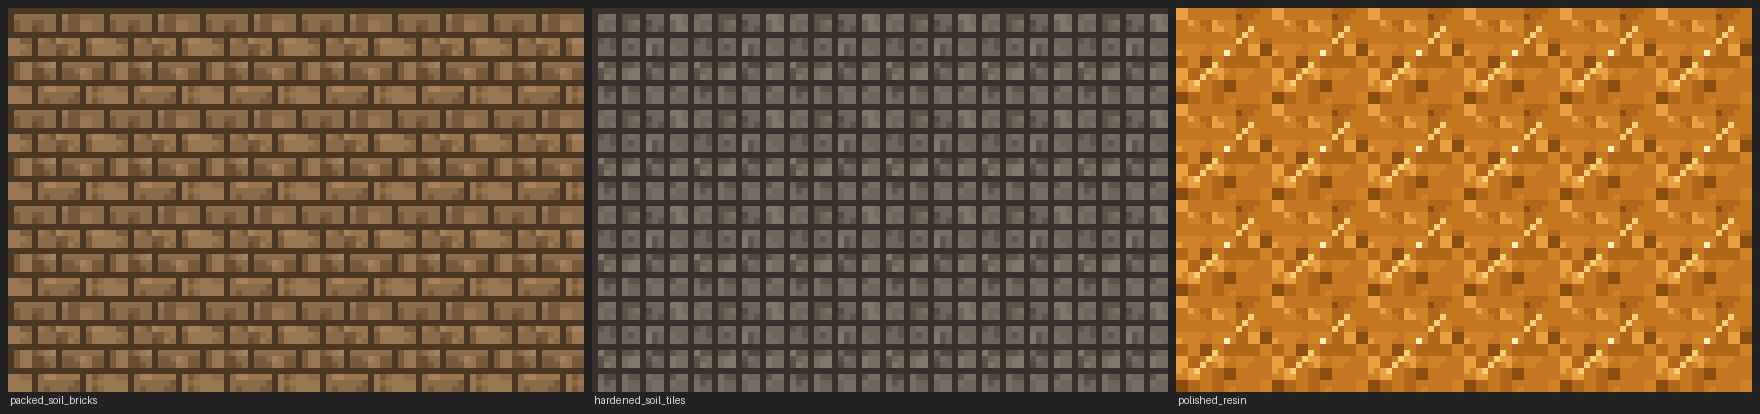
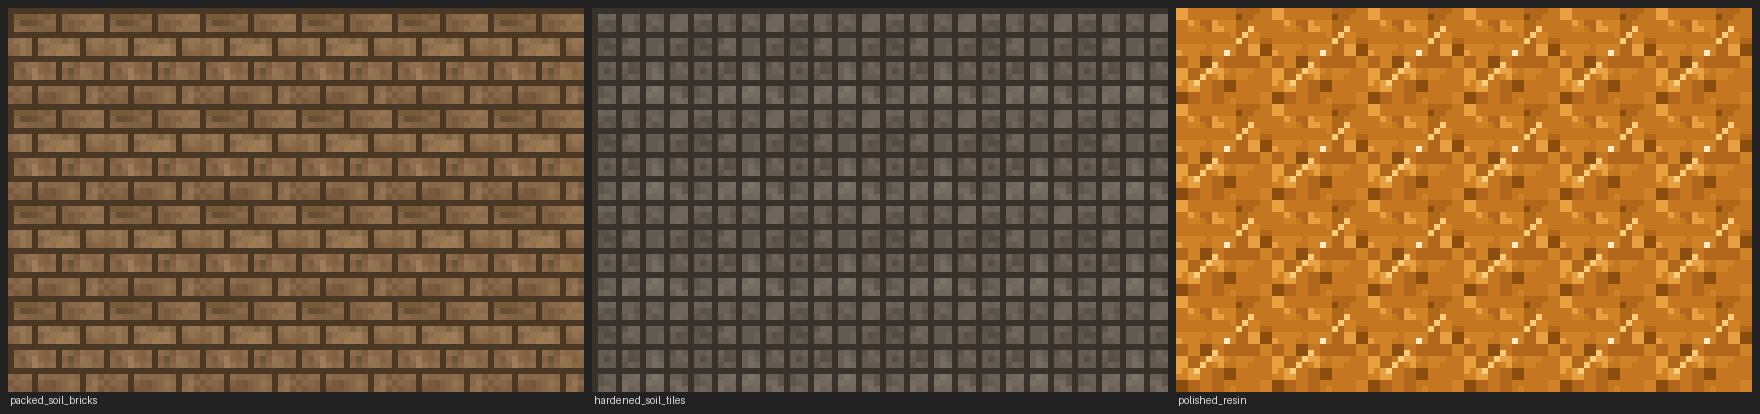
art(blocks): soil textures - finer specks, gradient blotches
Completes PKG-I task I1: the implementer reworked the soil family
generators (blotch scale down, internal gradients, speck layer) and
regenerated all derived textures, then hit a transient API error before
committing. Verified here: script re-run reproduces identical bytes
(deterministic contract), wall-sheet preview eyeballed against Logan's
chunky-blotches complaint. In-game before/after lands with the final
gate shot-list pass.

diff --git a/assets-src/blocks.py b/assets-src/blocks.py
@@ -8,7 +8,13 @@ aimed at reading like vanilla resources rather than flat speckle:
     * value-noise fills: a coarse 8x8 tone grid (5-tone palette) upscaled 2x
       with per-pixel +/-1 tone jitter -- noise arrives in connected clumps,
       the way vanilla dirt/stone does, and tiles seamlessly (grid cells are
-      independent, clump stamps wrap mod 16).
+      independent, clump stamps wrap mod 16). Used by everything EXCEPT the
+      soil family, which needs finer grain than a 2x2 flat cell can give.
+    * soil fills (`soil_texture`): smoothstep-interpolated wrapping value noise
+      at two lattices, gradient-cored elliptical blotches, and a fine speck
+      layer, quantised to a 12-tone ramp only at the end -- gradients all the
+      way down, so nothing reads as a flat chunk that the tile repeat can turn
+      into a grid.
     * directional bevels: combs and the trophy use light top-left / dark
       bottom-right edges like vanilla's chiseled blocks.
     * glow is dithered patches (glowstone-style), not smooth radial gradients.
@@ -20,8 +26,11 @@ src/main/resources/assets/formicary/textures/block/ (and textures/item/ for
 the item sprites), the two 64x32 Chitin Armor overlays into
 textures/models/armor/, the 18x18 mob-effect icons (M4b) into
 textures/mob_effect/, plus labelled contact sheets at
-assets-src/previews/blocks_sheet.png, previews/armor_layers_sheet.png and
-previews/effect_icons_sheet.png for QA.
+assets-src/previews/blocks_sheet.png, previews/armor_layers_sheet.png,
+previews/effect_icons_sheet.png, previews/decorative_families_wall_sheet.png and
+previews/soil_family_wall_sheet.png for QA. The two *_wall_sheet.png files tile
+each texture into a sample wall -- the only way to see the repeat, which is what
+a single 16x16 swatch hides.
 """
 
 import random
@@ -73,22 +82,6 @@ def value_noise_fill(name, palette, weights=None, jitter=0.22):
             if r.random() < jitter:
                 t = max(0, min(n - 1, t + r.choice((-1, 1))))
             px[x, y] = palette[t]
-    return img
-
-
-def stamp_clumps(img, name, count, color, highlight=None, size_range=(2, 3)):
-    """Small rectangular clumps (pebbles/inclusions) with an optional 1px
-    top-left highlight. Wraps mod 16 so the texture still tiles."""
-    r = rng(name + ":clumps")
-    px = img.load()
-    for _ in range(count):
-        cx, cy = r.randrange(SIZE), r.randrange(SIZE)
-        w, h = r.randint(*size_range), r.randint(*size_range)
-        for dy in range(h):
-            for dx in range(w):
-                px[wrap(cx + dx), wrap(cy + dy)] = color
-        if highlight:
-            px[wrap(cx), wrap(cy)] = highlight
     return img
 
 
@@ -145,72 +138,202 @@ def lerp_color(a, b, t):
 # rotates the same texture differently on top/bottom faces. The soils therefore keep
 # their value range TIGHT (mid three tones dominate, extremes are subtle) and their
 # features small and isotropic -- nothing directional, nothing eye-catching.
+#
+# Detail rework (Logan's 2026-08-18 review, Ep2 task I1): the first pass built the
+# soils out of `value_noise_fill` + `stamp_clumps`, and BOTH of those paint FLAT
+# colour -- an 8x8 tone grid upscaled 2x is a field of 2x2 same-colour squares, and
+# adjacent equal cells merge into 4x2 lumps, so the darkest cluster in the tile reads
+# as one chunky same-colour blotch. Because every copy of the tile is identical, that
+# one blotch is what the eye locks onto and the wall turns into a grid of it (see
+# run/screenshots/i-pass/before/i_soil_packed.png -- a repeating dark "L").
+#
+# The replacement (`soil_texture` below) fixes the three things that caused it:
+#   1. SMALLER BLOTCH SCALE -- the base is smoothly interpolated wrapping value noise
+#      at 4px and 2px lattices, so the dominant feature is ~2-4px, not ~4-8px.
+#   2. PER-BLOTCH INTERNAL GRADIENT -- both the base ramp (12 tones, not 5) and the
+#      blotch stamps carry a falloff, so no feature is a flat slab of one colour.
+#   3. A FINE SPECK LAYER on top -- dense single-pixel +/-1-tone grit that breaks the
+#      remaining smooth areas without adding any large shape to lock onto.
+# The block models then take vanilla `dirt`'s 4 random y-rotation variants
+# (assets/minecraft/blockstates/dirt.json in the client-extra jar -- verified, not
+# recalled) so floors and ceilings stop repeating one orientation as well.
 
 PACKED_SOIL_PAL = [(103, 78, 51, 255), (119, 90, 60, 255), (139, 107, 74, 255),
                    (153, 119, 83, 255), (166, 131, 93, 255)]
+AMBER_EARTH_PAL = [(124, 63, 28, 255), (139, 73, 34, 255), (163, 89, 43, 255),
+                   (178, 101, 51, 255), (193, 114, 61, 255)]
+DEEP_LOAM_PAL = [(54, 27, 17, 255), (64, 33, 21, 255), (82, 44, 28, 255),
+                 (93, 51, 33, 255), (104, 59, 38, 255)]
+HARDENED_SOIL_PAL = [(82, 74, 65, 255), (92, 83, 73, 255), (110, 100, 89, 255),
+                     (119, 109, 97, 255), (129, 119, 106, 255)]
+ANTHILL_SOIL_PAL = [(150, 117, 74, 255), (161, 128, 84, 255),
+                    (172, 139, 92, 255), (183, 150, 103, 255)]
+
+
+def tone_ramp(colors, steps):
+    """Resample a short palette into a longer, evenly-spaced ramp.
+
+    The old fills quantised to five tones, which is what made a blotch a flat slab:
+    two neighbouring pixels either shared a tone exactly or jumped a visible step.
+    A 12-step ramp over the same endpoints keeps the palette's value range identical
+    while giving every soft feature somewhere to fade through."""
+    out = []
+    last = len(colors) - 1
+    for i in range(steps):
+        t = i * last / (steps - 1)
+        lo = min(int(t), last - 1)
+        out.append(lerp_color(colors[lo], colors[lo + 1], t - lo))
+    return out
+
+
+def _noise_field(name, cell):
+    """Wrapping value noise on a `cell`-pixel lattice, smoothstep-interpolated.
+
+    Wrapping is not decoration: the lattice indices are taken mod (SIZE // cell), so
+    the right edge interpolates back into the left one and the tile stays seamless --
+    the same property `value_noise_fill` got for free by making grid cells
+    independent, kept here while the flat cells become gradients."""
+    r = rng(name)
+    n = SIZE // cell
+    lattice = [[r.random() for _ in range(n)] for _ in range(n)]
+    field = [[0.0] * SIZE for _ in range(SIZE)]
+    for y in range(SIZE):
+        gy, fy = divmod(y, cell)
+        ty = (fy / cell) * (fy / cell) * (3 - 2 * (fy / cell))
+        for x in range(SIZE):
+            gx, fx = divmod(x, cell)
+            tx = (fx / cell) * (fx / cell) * (3 - 2 * (fx / cell))
+            a = lattice[gy][gx]
+            b = lattice[gy][(gx + 1) % n]
+            c = lattice[(gy + 1) % n][gx]
+            d = lattice[(gy + 1) % n][(gx + 1) % n]
+            field[y][x] = (a + (b - a) * tx) * (1.0 - ty) + (c + (d - c) * tx) * ty
+    return field
+
+
+def soil_texture(name, colors, steps=12, octaves=((2, 1.0),), contrast=1.35,
+                 blotches=((18, -0.7, (0.8, 1.4)), (15, 0.65, (0.8, 1.3))), speck_rate=0.5,
+                 speck_amp=1.7):
+    """The soil family's shared fill: smooth multi-octave base, gradient blotches,
+    fine speck layer. Works in continuous tone-index space and only quantises to the
+    ramp at the very end, so every layer composes as a gradient rather than as a
+    stamp of flat colour.
+
+    `blotches` is a list of (count, signed amplitude in ramp steps, radius range).
+    A negative amplitude darkens. Each blotch is an ellipse with a 1 - d^2 falloff --
+    that falloff IS the per-blotch internal gradient; the old `stamp_clumps` painted
+    a solid rectangle plus one highlight pixel instead, which is the chunky-blotch
+    complaint. Every layer wraps mod 16, so the tile is still seamless.
+
+    The defaults are tuned against two numbers, not by eye alone: the spread of the
+    tile's 4x4 BLOCK MEANS (call it coarse) and its per-pixel spread (fine). Coarse
+    is what survives being repeated -- it is the motif the eye grids up -- so it has
+    to come DOWN; fine is the grain, which has to stay UP or the soil goes plasticky.
+    Hence the weighting toward the 2px octave, the >1 contrast (a mean of two uniform
+    fields is over-concentrated around mid grey), and a speck layer big enough to
+    matter."""
+    tones = tone_ramp(colors, steps)
+    fields = [(_noise_field(f"{name}:oct{cell}", cell), weight) for cell, weight in octaves]
+    total = sum(weight for _, weight in octaves)
+
+    level = [[0.0] * SIZE for _ in range(SIZE)]
+    for y in range(SIZE):
+        for x in range(SIZE):
+            v = sum(field[y][x] * weight for field, weight in fields) / total
+            level[y][x] = (0.5 + (v - 0.5) * contrast) * (steps - 1)
+
+    r = rng(name + ":blotches")
+    for count, amplitude, radius_range in blotches:
+        for _ in range(count):
+            cx, cy = r.randrange(SIZE), r.randrange(SIZE)
+            rad = r.uniform(*radius_range)
+            # deliberately elliptical and jittered: a run of identical circles is a
+            # stamp, and a stamp is exactly what reads as a motif at world scale
+            ax, ay = rad * r.uniform(0.75, 1.3), rad * r.uniform(0.75, 1.3)
+            reach = int(max(ax, ay)) + 1
+            for dy in range(-reach, reach + 1):
+                for dx in range(-reach, reach + 1):
+                    d = (dx / ax) ** 2 + (dy / ay) ** 2
+                    if d >= 1.0:
+                        continue
+                    level[wrap(cy + dy)][wrap(cx + dx)] += amplitude * (1.0 - d)
+
+    r = rng(name + ":specks")
+    for y in range(SIZE):
+        for x in range(SIZE):
+            if r.random() < speck_rate:
+                level[y][x] += speck_amp * r.choice((-1.0, -0.55, 0.55, 1.0))
+
+    # Ordered dither at the quantisation step. Without it the ramp turns every smooth
+    # gradient into banded regions, and a band has an OUTLINE -- which is exactly the
+    # recognisable shape that a repeated tile grids up. Half a step of 4x4 Bayer
+    # noise scatters the band edge into grain instead.
+    bayer = [[0, 8, 2, 10], [12, 4, 14, 6], [3, 11, 1, 9], [15, 7, 13, 5]]
+    img = blank()
+    px = img.load()
+    for y in range(SIZE):
+        for x in range(SIZE):
+            v = level[y][x] + (bayer[y % 4][x % 4] / 16.0 - 0.47)
+            px[x, y] = tones[max(0, min(steps - 1, int(round(v))))]
+    return img
 
 
 def packed_soil():
-    img = value_noise_fill("packed_soil", PACKED_SOIL_PAL)
-    # a single grit clump, kept close to the base tones so repeats stay quiet
-    stamp_clumps(img, "packed_soil", 1, (110, 83, 55, 255),
-                 highlight=(158, 124, 87, 255), size_range=(2, 2))
-    return img
+    return soil_texture("packed_soil", PACKED_SOIL_PAL)
 
 
 def amber_earth():
-    img = value_noise_fill("amber_earth",
-                           [(124, 63, 28, 255), (139, 73, 34, 255), (163, 89, 43, 255),
-                            (178, 101, 51, 255), (193, 114, 61, 255)])
-    # a single subdued resin fleck per tile
-    stamp_clumps(img, "amber_earth", 1, (212, 138, 62, 255),
-                 highlight=(228, 164, 90, 255), size_range=(1, 1))
-    return img
+    # one extra bright blotch family: the resin flecks this tier is named for, now
+    # gradient-cored instead of a single flat pixel
+    return soil_texture("amber_earth", AMBER_EARTH_PAL,
+                        blotches=((13, -1.0, (0.8, 1.4)), (9, 0.9, (0.8, 1.3)),
+                                  (4, 2.0, (0.6, 0.95))))
 
 
 def deep_loam():
-    img = value_noise_fill("deep_loam",
-                           [(54, 27, 17, 255), (64, 33, 21, 255), (82, 44, 28, 255),
-                            (93, 51, 33, 255), (104, 59, 38, 255)])
-    stamp_clumps(img, "deep_loam", 2, (46, 23, 15, 255),
-                 highlight=(96, 54, 34, 255), size_range=(2, 2))
-    return img
+    # the darkest tier reads muddier: a touch more contrast, slightly bigger dark
+    # blotches, and the same speck layer to keep the repeat from showing
+    return soil_texture("deep_loam", DEEP_LOAM_PAL, contrast=1.7,
+                        blotches=((14, -1.1, (0.8, 1.4)), (11, 1.0, (0.8, 1.3))),
+                        speck_rate=0.52, speck_amp=1.9)
 
 
 def hardened_soil():
-    img = value_noise_fill("hardened_soil",
-                           [(82, 74, 65, 255), (92, 83, 73, 255), (110, 100, 89, 255),
-                            (119, 109, 97, 255), (129, 119, 106, 255)])
-    # embedded stones, low contrast so the repeat stays quiet
-    stamp_clumps(img, "hardened_soil", 3, (73, 66, 58, 255),
-                 highlight=(133, 123, 110, 255), size_range=(2, 2))
-    return img
+    # embedded stones: bright-cored blotches over a stony ramp, low amplitude so
+    # the repeat stays quiet
+    return soil_texture("hardened_soil", HARDENED_SOIL_PAL,
+                        blotches=((14, -1.1, (0.8, 1.4)), (12, 1.1, (0.8, 1.3))),
+                        speck_rate=0.52, speck_amp=1.8)
 
 
 def anthill_soil():
     """Excavated-pellet look: an anthill is thousands of carried soil granules.
     Dense 2x2 pellets (lit top-left, shaded bottom-right) packed over a sandy
-    base, with a few dark pore openings the ants come and go by."""
-    img = value_noise_fill("anthill_soil",
-                           [(150, 117, 74, 255), (161, 128, 84, 255),
-                            (172, 139, 92, 255), (183, 150, 103, 255)],
-                           weights=[2, 5, 5, 2], jitter=0.15)
+    base, with a few dark pore openings the ants come and go by.
+
+    The pellets survive the I1 rework unchanged in spirit -- a 2x2 that runs
+    light/mid/mid/dark already IS a per-blotch internal gradient, which is the
+    thing the other soils were missing -- but they now sit on the smooth
+    `soil_texture` base instead of the flat 2x2 grid, and there are more of them
+    at lower contrast so no single pellet cluster carries the tile."""
+    img = soil_texture("anthill_soil", ANTHILL_SOIL_PAL, contrast=1.2,
+                       blotches=((9, -0.9, (0.8, 1.3)),), speck_rate=0.34, speck_amp=1.3)
     px = img.load()
     r = rng("anthill_soil:pellets")
-    for _ in range(26):
+    for _ in range(34):
         x, y = r.randrange(SIZE), r.randrange(SIZE)
         mid = r.choice([(166, 133, 88, 255), (176, 143, 96, 255), (186, 152, 104, 255)])
-        lite = (min(mid[0] + 26, 255), min(mid[1] + 24, 255), min(mid[2] + 20, 255), 255)
-        dark = (max(mid[0] - 30, 0), max(mid[1] - 28, 0), max(mid[2] - 24, 0), 255)
+        lite = (min(mid[0] + 20, 255), min(mid[1] + 18, 255), min(mid[2] + 15, 255), 255)
+        dark = (max(mid[0] - 24, 0), max(mid[1] - 22, 0), max(mid[2] - 19, 0), 255)
         px[x, y] = lite
         px[wrap(x + 1), y] = mid
         px[x, wrap(y + 1)] = mid
         px[wrap(x + 1), wrap(y + 1)] = dark
     for _ in range(3):
         x, y = r.randrange(SIZE), r.randrange(SIZE)
-        px[x, y] = (82, 60, 36, 255)
-        px[wrap(x + 1), y] = (102, 76, 46, 255)
-        px[x, wrap(y + 1)] = (102, 76, 46, 255)
+        px[x, y] = (92, 68, 42, 255)
+        px[wrap(x + 1), y] = (110, 83, 51, 255)
+        px[x, wrap(y + 1)] = (110, 83, 51, 255)
     return img
 
 
@@ -543,8 +666,14 @@ def anthill_core():
 def packed_soil_bricks():
     """Packed Soil cut into bricks: same soil palette (so the material reads
     through), laid in a running-bond mortar grid -- two courses of two bricks,
-    joints offset on alternate rows, the way vanilla's own bricks.png reads."""
-    img = value_noise_fill("packed_soil_bricks", PACKED_SOIL_PAL, jitter=0.14)
+    joints offset on alternate rows, the way vanilla's own bricks.png reads.
+
+    Carried onto `soil_texture` by the I1 rework for the same reason it borrows the
+    palette: "the material reads through" only holds while the brick face is made of
+    the same stuff as the parent block. Low contrast and no blotches -- a cut brick
+    is a dressed face, and the mortar grid is already all the structure it needs."""
+    img = soil_texture("packed_soil_bricks", PACKED_SOIL_PAL, contrast=0.7,
+                       blotches=((3, -1.1, (1.1, 1.7)),), speck_rate=0.2)
     px = img.load()
     mortar = (74, 56, 37, 255)
     for y in range(SIZE):
@@ -563,10 +692,10 @@ def packed_soil_bricks():
 def hardened_soil_tiles():
     """Hardened Soil cut into flat tiles: same stony palette, a straight
     (non-offset) 4x4 grout grid -- the straight grid is what tells it apart
-    from the bricks' running bond at a glance."""
-    img = value_noise_fill("hardened_soil_tiles",
-                           [(82, 74, 65, 255), (92, 83, 73, 255), (110, 100, 89, 255),
-                            (119, 109, 97, 255), (129, 119, 106, 255)], jitter=0.14)
+    from the bricks' running bond at a glance. Same `soil_texture` base as its parent
+    block for the same material-continuity reason as packed_soil_bricks."""
+    img = soil_texture("hardened_soil_tiles", HARDENED_SOIL_PAL, contrast=0.7,
+                       blotches=((3, -1.1, (1.1, 1.7)),), speck_rate=0.22)
     px = img.load()
     grout = (56, 50, 44, 255)
     for i in range(0, SIZE, 4):
@@ -1731,6 +1860,18 @@ def main():
     wall_sheet_path = PREVIEW_DIR / "decorative_families_wall_sheet.png"
     wall_sheet.save(wall_sheet_path)
     print(f"wrote {wall_sheet_path.relative_to(REPO_ROOT)}")
+
+    # Ep2 task I1: the same tiled-wall check for the soil family, which is the
+    # family the repeat actually bites on -- soils are what the whole dimension is
+    # built out of, so "does the repeat show a grid" is their only real acceptance
+    # test and it cannot be judged from a single 16x16 tile.
+    soil_names = ["packed_soil", "amber_earth", "deep_loam", "hardened_soil",
+                  "anthill_soil"]
+    soils = [(name, img) for (name, img) in generated if name in soil_names]
+    soil_sheet = family_wall_sheet(soils, cols=5, rows=5, scale=5)
+    soil_sheet_path = PREVIEW_DIR / "soil_family_wall_sheet.png"
+    soil_sheet.save(soil_sheet_path)
+    print(f"wrote {soil_sheet_path.relative_to(REPO_ROOT)}")
 
     effect_icons = []
     for name, make in EFFECT_ICONS.items():
